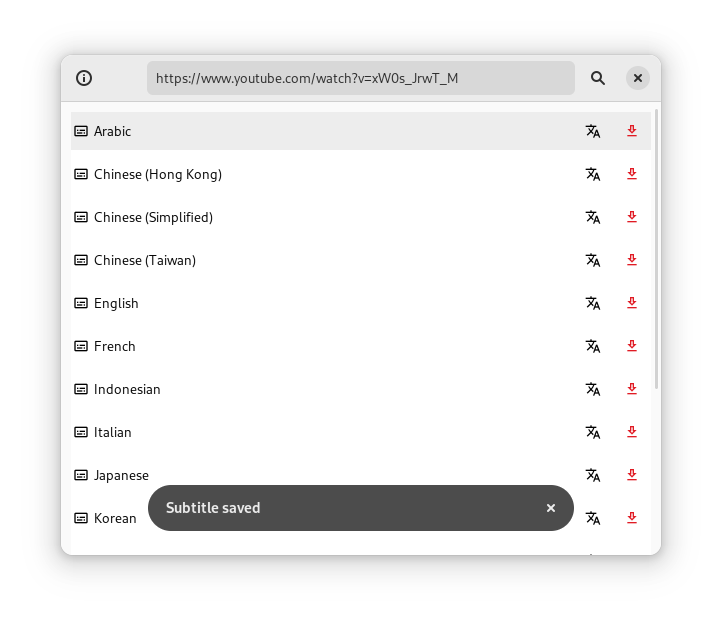
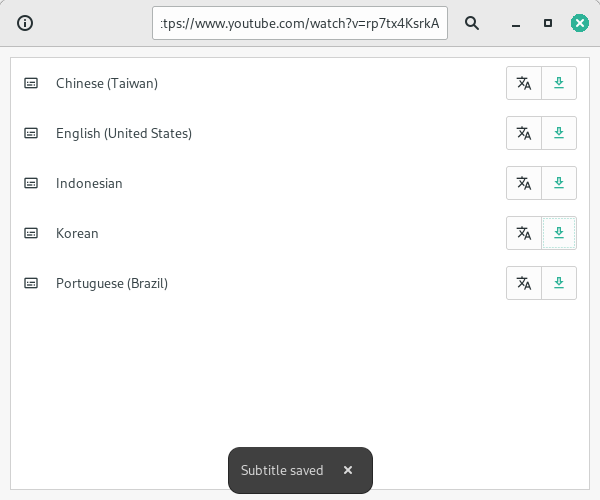
Go back to pure gtk

diff --git a/src/style.css b/src/style.css
@@ -1,6 +1,11 @@
-@define-color accent_bg_color @red_3;
-@define-color accent_color @red_3;
+.suggested-button {
+    color: @theme_selected_bg_color;
+}
 
-.suggested-button{
-    color: @accent_color;
+.toast {
+    border-radius: 12px;
+    padding-bottom: 6px;
+    padding-top: 6px;
+    padding-left: 6px;
+    padding-right: 6px;
 }

diff --git a/src/window.py b/src/window.py
@@ -17,8 +17,7 @@
 
 import gi
 import urllib.parse as urlparse
-gi.require_version('Adw', '1')
-from gi.repository import Gtk, Gdk, Adw
+from gi.repository import Gtk, Gdk, GLib
 from youtube_transcript_api import YouTubeTranscriptApi as yt_api
 from youtube_transcript_api.formatters import WebVTTFormatter
 
@@ -29,14 +28,24 @@ class UsubWindow(Gtk.ApplicationWindow):
 
     subs_scroll = Gtk.Template.Child()
     url_entry = Gtk.Template.Child()
-    toast_overlay = Gtk.Template.Child()
+    toast = Gtk.Template.Child()
+    toast_label = Gtk.Template.Child()
 
     def __init__(self, **kwargs):
         super().__init__(**kwargs)
         provider = Gtk.CssProvider()
         provider.load_from_resource('/cu/axel/usub/style.css')
         Gtk.StyleContext.add_provider_for_display(Gdk.Display.get_default(), provider, Gtk.STYLE_PROVIDER_PRIORITY_APPLICATION)
-    
+
+    def show_toast(self, text):
+        self.toast.set_reveal_child(True)
+        self.toast_label.set_text(text)
+        GLib.timeout_add(5000, self.hide_toast)
+
+    def hide_toast(self):
+        self.toast.set_reveal_child(False)
+        return False
+
     @Gtk.Template.Callback()
     def parse_url(self, widget):
         video_id = self.get_video_id(self.url_entry.get_text())
@@ -53,21 +62,22 @@ class UsubWindow(Gtk.ApplicationWindow):
                 dialog.show()
         else:
             pass
-        
+
     def on_error_dialog(self, dialog, response):
         dialog.destroy()
-    
+
     def update_sub_list(self, sub_list):
         subs_list_box = Gtk.ListBox()
+        subs_list_box.add_css_class('rich-list')
+        subs_list_box.add_css_class('frame')
         subs_list_box.set_selection_mode(Gtk.SelectionMode.NONE)
         subs_list_box.set_margin_top(10)
         subs_list_box.set_margin_bottom(10)
         subs_list_box.set_margin_start(10)
         subs_list_box.set_margin_end(10)
         self.subs_scroll.set_child(subs_list_box)
-        
+
         for sub in sub_list:
-            row = Gtk.ListBoxRow()
             row_content = Gtk.Box(orientation=Gtk.Orientation.HORIZONTAL)
             row_content.append(Gtk.Image().new_from_icon_name('subtitle-symbolic'))
             sub_lang_label = Gtk.Label(label=sub.language)
@@ -75,32 +85,33 @@ class UsubWindow(Gtk.ApplicationWindow):
             sub_lang_label.props.halign = Gtk.Align.START
             sub_lang_label.set_margin_start(5)
             row_content.append(sub_lang_label)
+            box = Gtk.Box(orientation=Gtk.Orientation.HORIZONTAL)
+            box.add_css_class('linked')
             sub_download_btn = Gtk.Button().new_from_icon_name('download-symbolic')
-            sub_download_btn.add_css_class('flat')
+            # sub_download_btn.add_css_class('flat')
             sub_download_btn.add_css_class('suggested-button')
             sub_download_btn.connect('clicked', self.download_sub, sub)
-            sub_download_btn.set_margin_start(5)
+            # sub_download_btn.set_margin_start(5)
             sub_translate_btn = Gtk.Button().new_from_icon_name('translate-symbolic')
-            sub_translate_btn.set_margin_start(5)
-            sub_translate_btn.add_css_class('flat')
+            # sub_translate_btn.set_margin_start(5)
+            # sub_translate_btn.add_css_class('flat')
             sub_translate_btn.connect('clicked', self.translate_sub, sub)
-            row_content.append(sub_translate_btn)
-            row_content.append(sub_download_btn)
-            row.set_child(row_content)
-            row.set_margin_bottom(5)
-            subs_list_box.append(row)
-            
+            box.append(sub_translate_btn)
+            box.append(sub_download_btn)
+            row_content.append(box)
+            subs_list_box.append(row_content)
+
     def download_sub(self, button, sub):
         sub_content = sub.fetch()
         self.save_sub('subtitle_' + sub.language_code+'.srt', sub_content)
-        
+
     def save_sub(self, name, sub_content):
         dialog = Gtk.FileChooserDialog(transient_for=self, title='Save subtitle', action = Gtk.FileChooserAction.SAVE)
         dialog.add_buttons("_Cancel", Gtk.ResponseType.CANCEL, "_Save", Gtk.ResponseType.ACCEPT)
         dialog.set_current_name(name)
         dialog.connect('response', self.on_save_sub, sub_content)
         dialog.show()
-        
+
     def translate_sub(self, button, sub):
         dialog = Gtk.Dialog(transient_for=self, title='Enter language code', use_header_bar=True)
         lang_code_entry = Gtk.Entry()
@@ -113,28 +124,28 @@ class UsubWindow(Gtk.ApplicationWindow):
         dialog.add_buttons("_Cancel", Gtk.ResponseType.CANCEL, "_OK", Gtk.ResponseType.ACCEPT)
         dialog.connect('response', self.on_translate_sub, lang_code_entry, sub)
         dialog.show()
-        
+
     def on_translate_sub(self, dialog, response, entry, sub):
         if response == Gtk.ResponseType.ACCEPT:
             if len((lang_code:=entry.get_text())) > 1:
                 sub_content = sub.translate(lang_code).fetch()
                 self.save_sub('subtitle_' + lang_code + '.srt', sub_content)
-                
+
         dialog.destroy()
-        
+
     def on_save_sub(self, dialog, response, sub_content):
         if response == Gtk.ResponseType.ACCEPT:
             file_path = dialog.get_file().get_path()
-            
+
             formatter = WebVTTFormatter()
             sub = formatter.format_transcript(sub_content)
-            
+
             with open(file_path, 'w') as file:
                 file.write(sub)
-                
+
         dialog.destroy()
-        self.toast_overlay.add_toast(Adw.Toast().new(title = 'Subtitle saved'))
-    
+        self.show_toast('Subtitle saved')
+
     def get_video_id(self, url):
         url_data = urlparse.urlparse(url)
         if url_data.hostname == 'youtu.be':
@@ -148,7 +159,7 @@ class UsubWindow(Gtk.ApplicationWindow):
             if url_data.path[:3] == '/v/':
                 return url_data.path.split('/')[2]
         return None
-    
+
     @Gtk.Template.Callback()
     def on_about_action(self, widget):
         about = AboutDialog(self)
@@ -165,4 +176,3 @@ class AboutDialog(Gtk.AboutDialog):
         self.props.copyright = '(C) 2021 Axel'
         self.props.logo_icon_name = 'cu.axel.usub'
         self.set_transient_for(parent)
-

diff --git a/src/main.py b/src/main.py
@@ -18,13 +18,12 @@
 import sys
 import gi
 gi.require_version('Gtk', '4.0')
-gi.require_version('Adw', '1')
-from gi.repository import Gtk, Gio, Adw
+from gi.repository import Gtk, Gio
 
 from .window import UsubWindow
 
 
-class Application(Adw.Application):
+class Application(Gtk.Application):
     def __init__(self):
         super().__init__(application_id='cu.axel.usub',
                          flags=Gio.ApplicationFlags.FLAGS_NONE)
